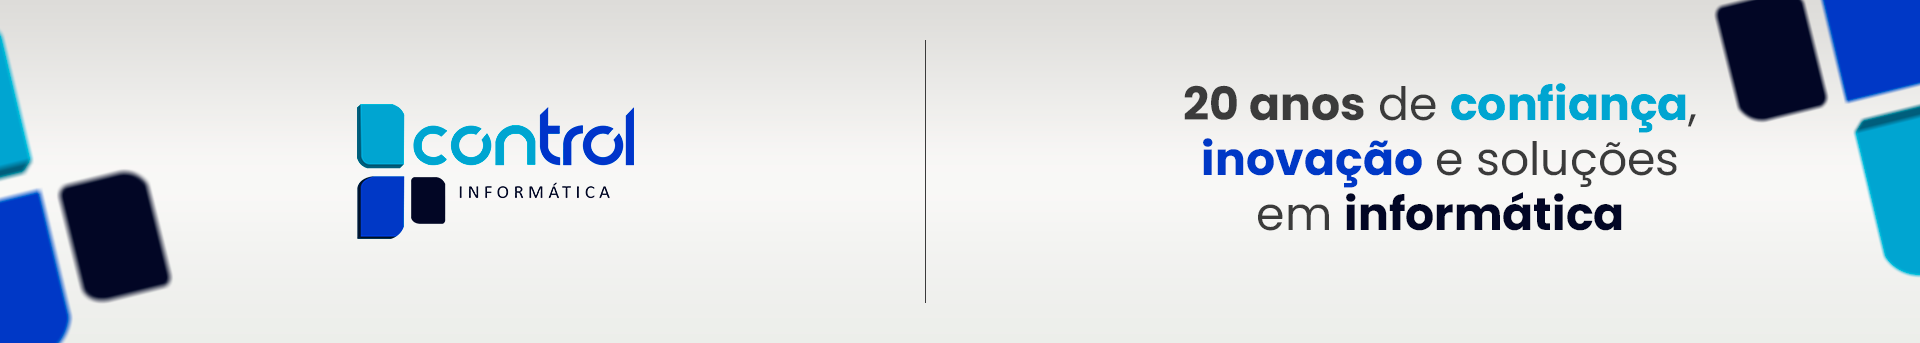
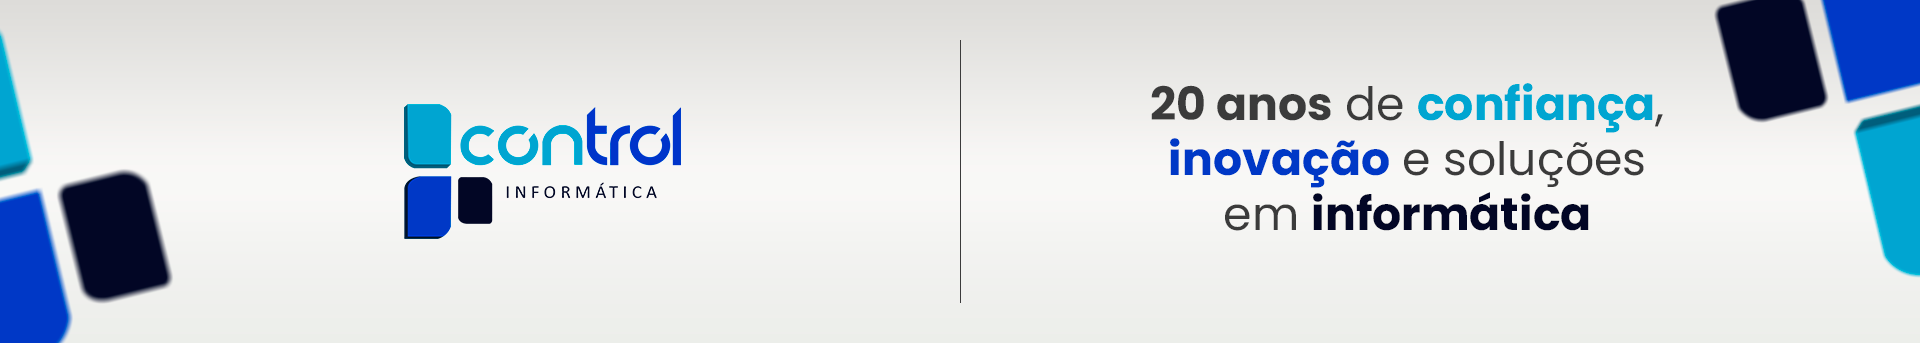
imagens-mobile

Changed region(s): [[0.5938, 0.4082, 0.875, 0.6706], [0.1875, 0.2915, 0.375, 0.6997], [0.5938, 0.2332, 0.9062, 0.379]]

diff --git a/script.js b/script.js
@@ -12,11 +12,31 @@ const lista = [
   { img: 3, href: "#infos" } 
 ];
 
+const listaMobile = [
+  { img: 4, href: "#contato" },
+  { img: 5, href: "#servicos" },
+  { img: 6, href: "#infos" }
+];
+
 let botaoVoltar;
 let botaoAvancar;
 let banner;
 let bannerLink;
 let intervalo; 
+let listaAtiva = lista;
+
+function VerificarTamanhoTela() {
+  if (window.innerWidth <= 425) {
+    listaAtiva = listaMobile;
+  } else {
+    listaAtiva = lista; 
+  }
+  Atualizar();
+}
+
+window.addEventListener('resize', VerificarTamanhoTela);
+
+VerificarTamanhoTela();
 
 function Inicio() {
   botaoVoltar = document.getElementById("btnVoltar");
@@ -45,7 +65,7 @@ function Inicio() {
 
 function Avancar() {
   cont++;
-  if (cont >= lista.length) {
+  if (cont >= listaAtiva.length) {
     cont = 0;
   }
   Atualizar();
@@ -55,15 +75,15 @@ function Avancar() {
 function Voltar() {
   cont--;
   if (cont < 0) {
-    cont = lista.length - 1;
+    cont = listaAtiva.length - 1;
   }
   Atualizar();
   ReiniciarCarrossel(); 
 }
 
 function Atualizar() {
-  banner.src = caminho + prefix + lista[cont].img + extensao;
-  bannerLink.href = lista[cont].href;
+  banner.src = caminho + prefix + listaAtiva[cont].img + extensao;
+  bannerLink.href = listaAtiva[cont].href;
   AtualizarIndicadores();
 }
 
